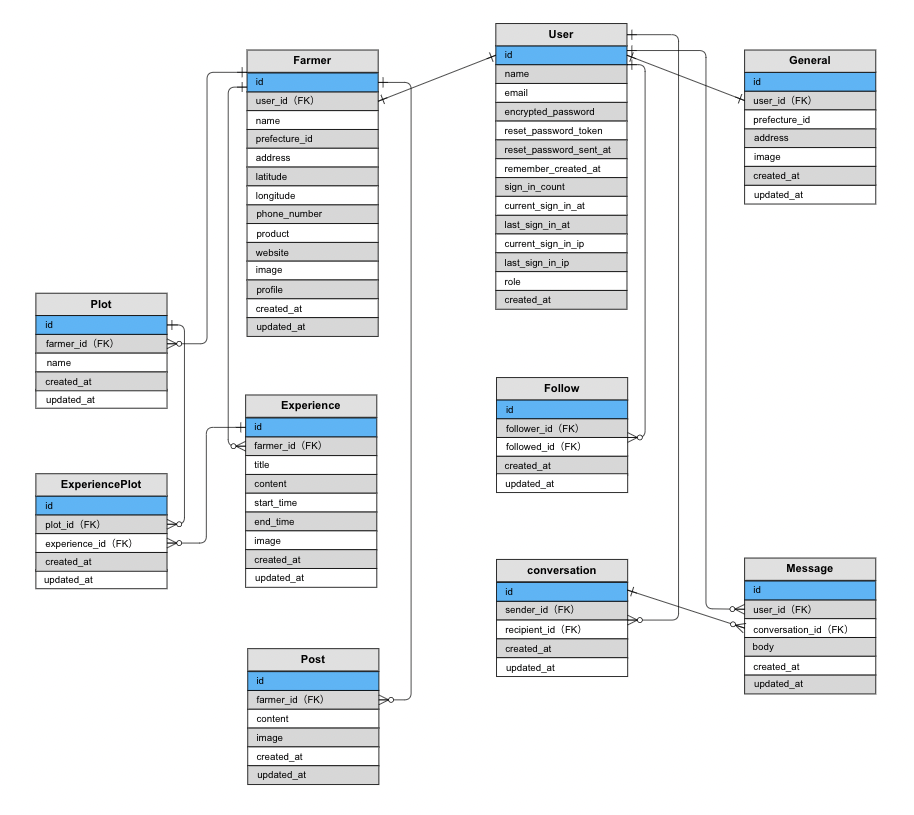
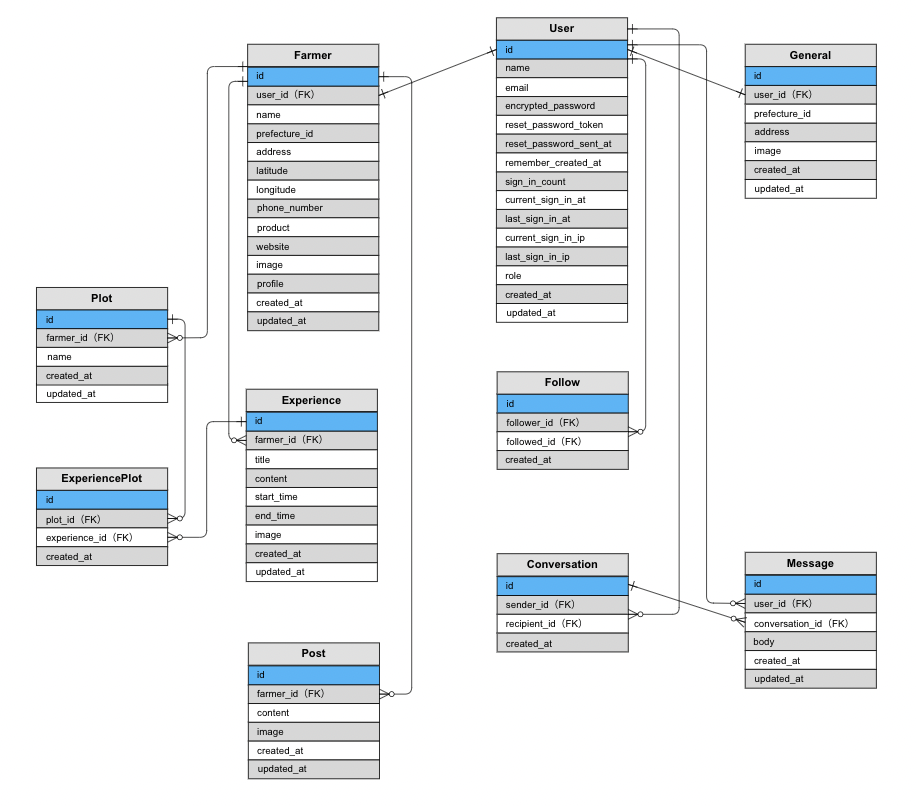
ER図修正

diff --git a/README.md b/README.md
@@ -39,6 +39,6 @@ https://docs.google.com/spreadsheets/d/148I2Z3vRf-EKBWjTOgoPCv3j0jTmryozKNh3qZ6j
 https://cacoo.com/diagrams/BuuQyis91N3eU0lV/47463
 
 ## ER図
-![er](https://user-images.githubusercontent.com/122067636/229765793-406704b3-bb9e-4c92-86cb-04f52223cb03.png)
+![er](https://user-images.githubusercontent.com/122067636/229800989-e5dcd3d8-2d10-4400-9107-9865627162b8.png)
 ## 画面遷移図
 ![diagram](https://user-images.githubusercontent.com/122067636/229765786-6b9856cc-8f8d-4c18-81a0-3d967850c5fe.png)
